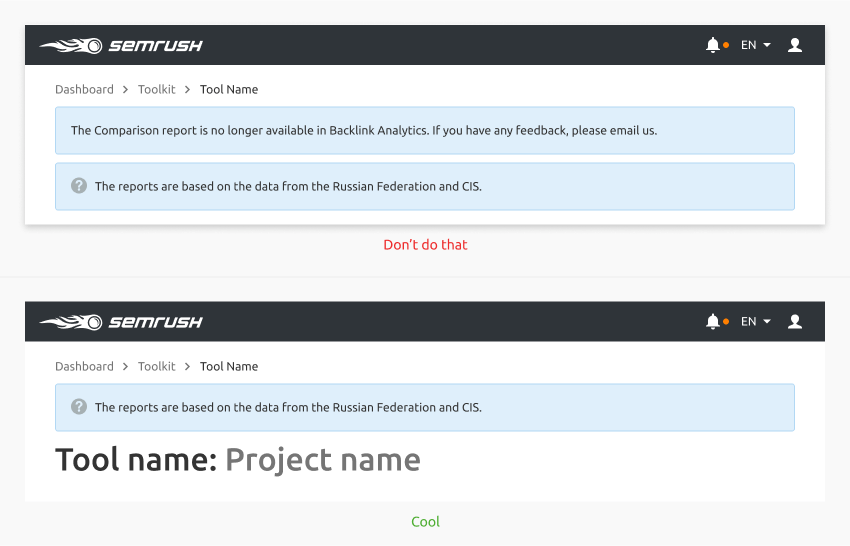
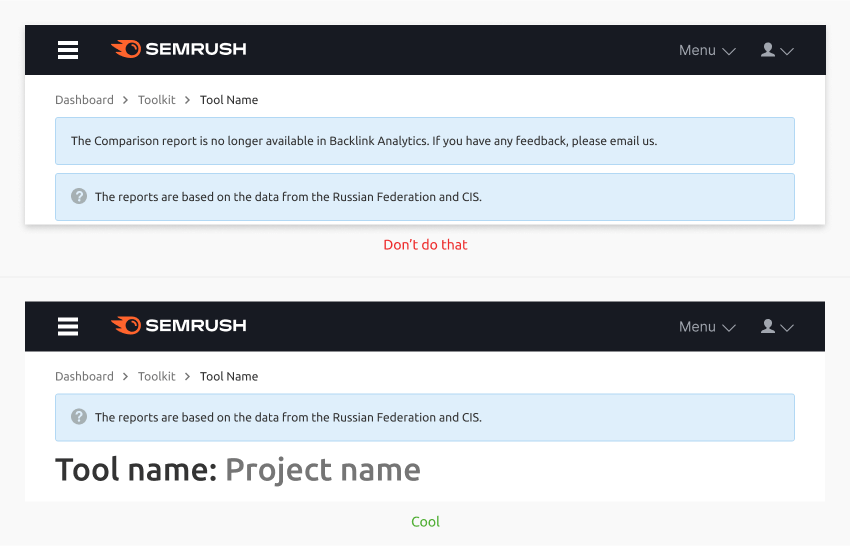
[Button, Notice] Add info about width, update illustrations

diff --git a/website/docs/components/notice/notice.md b/website/docs/components/notice/notice.md
@@ -125,16 +125,6 @@ A serious error/problem/action that does not allow the user to continue working 
 
 ![danger](static/danger.png)
 
-### Global notice
-
-The default color of this notice is `--wall`.
-
-![global-notice](static/gnotice-default.png)
-
-If necessary, you can give it a different color. For example, `--violet`, `--light-blue` or other from [our palette](/style/color/).
-
-![global-notice](static/gnotice-custom.png)
-
 @## Interaction
 
 ### Contextual notice
@@ -211,7 +201,7 @@ If the notice applies to the entire component, it is placed at the bottom or top
 
 ![gnotice-placement](static/placement.png)
 
-@## Custom notices
+@## Custom notice
 
 These are the notices that "live" by their own rules and their styles differ from regular notices.
 
@@ -220,6 +210,16 @@ These are the notices that "live" by their own rules and their styles differ fro
 It differs from the regular one – it is attached to the header and stretched to the full width of the report's content section. It has no indents at the top, right, or left. You can see an example in the [Code tab](/components/notice/notice-code).
 
 ![feedback](static/feedback.png)
+
+### Global notice
+
+The default color of this notice is `--wall`.
+
+![global-notice](static/gnotice-default.png)
+
+If necessary, you can give it a different color. For example, `--violet`, `--light-blue` or other from [our palette](/style/color/).
+
+![global-notice](static/gnotice-custom.png)
 
 ### Advertising
 

diff --git a/website/docs/components/button/button.md b/website/docs/components/button/button.md
@@ -35,13 +35,19 @@ The button text has margins on the right and left, and Addons that can be insert
 
 The button width is determined by the width of the typed text/content. But it can also be stretched to a certain width (100%) - `w="100%"`.
 
+###
+
 This is necessary when the button text is short, but the button is a CTA on the page/in a modal window or it performs an important action. Also, in terms of visual hierarchy, it is not good to make it small-sized in such cases. Use this opportunity thoughtfully and carefully.
 
 ![button width example](static/button-width.png)
 
-It is important that the CTA is always visually more significant than the secondary button due to its color and size.
+It is important that the CTA is always visually more significant than the secondary button due to its color and size. So don't hesitate to make it wider if necessary.
 
 ![button width example](static/button-width2.png)
+
+If you need to use a single button with a very long label we recommend you to set it's width to at least 120px.
+
+![button width example](static/button-width3.png)
 
 @## Button types
 
